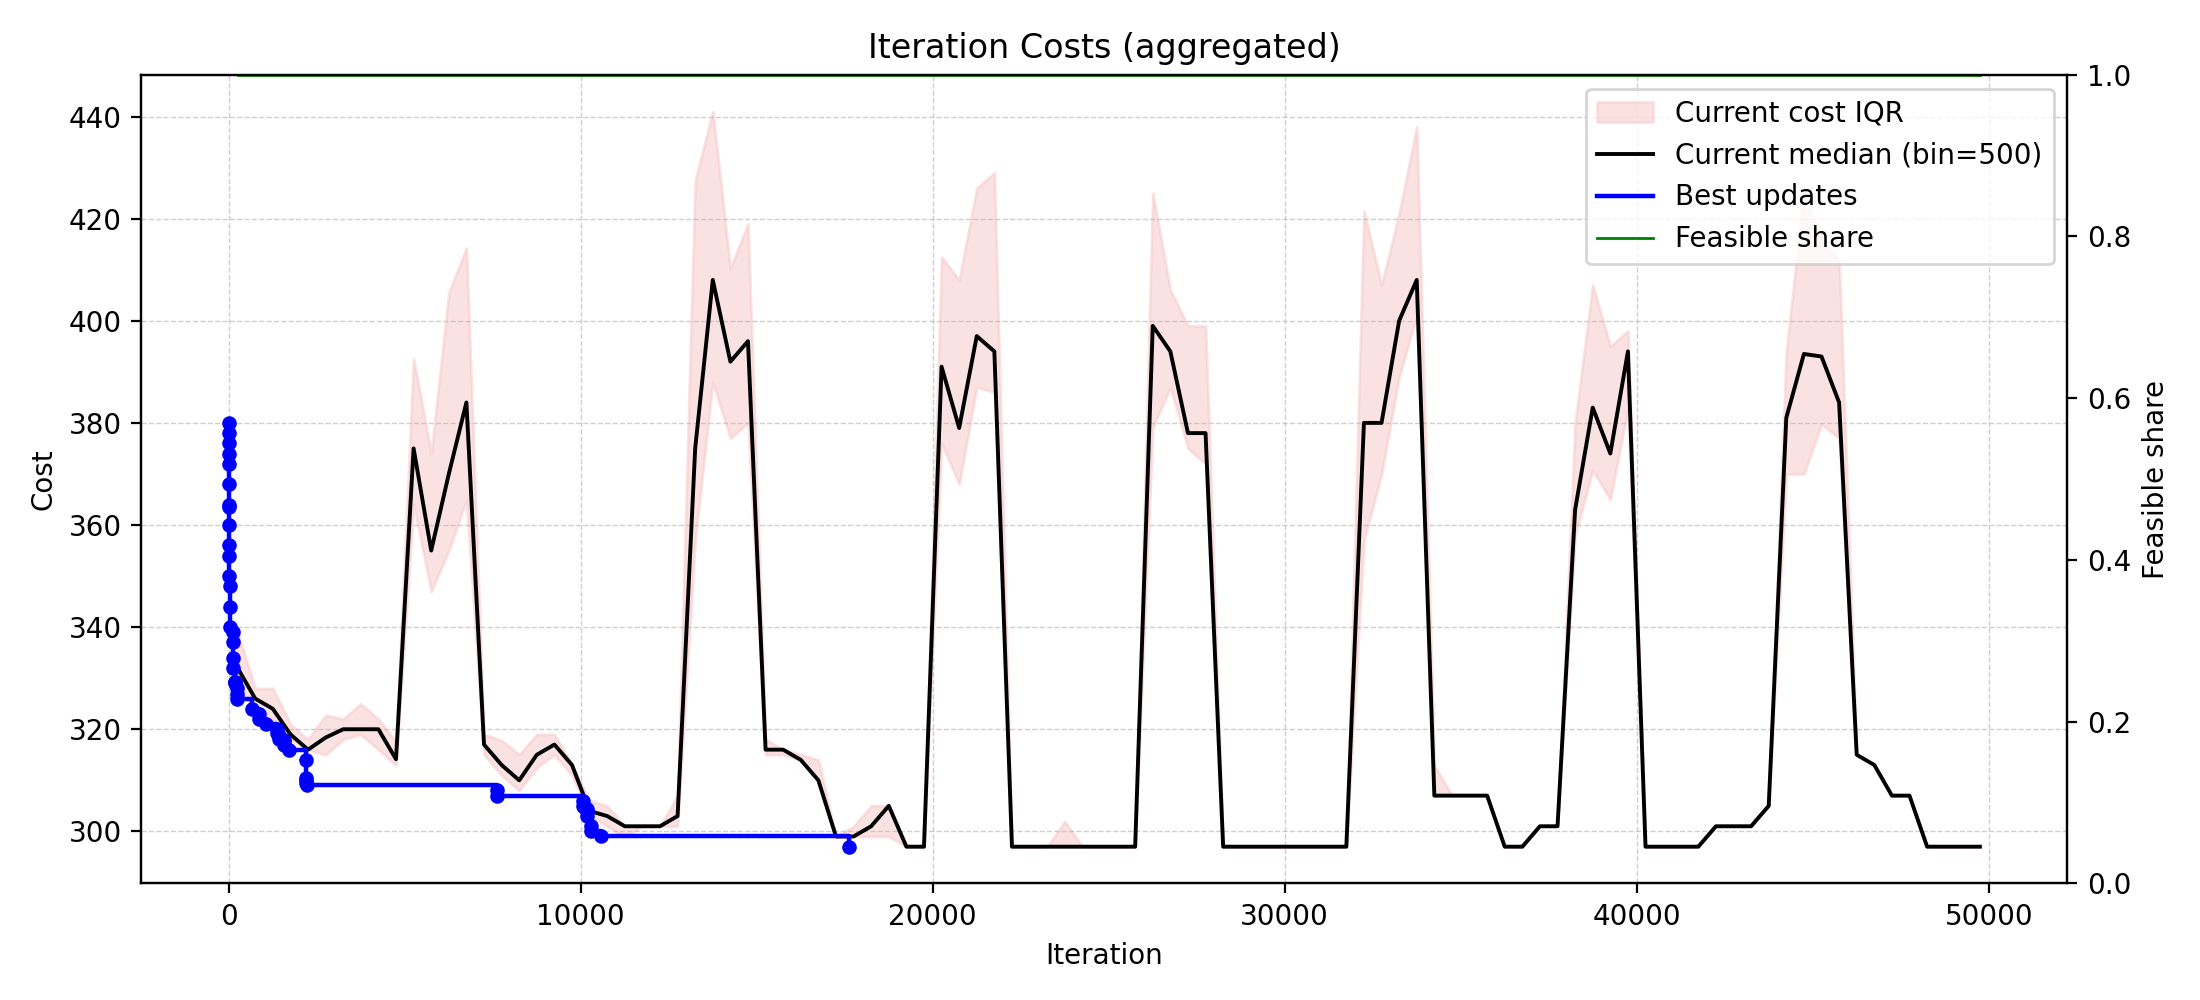
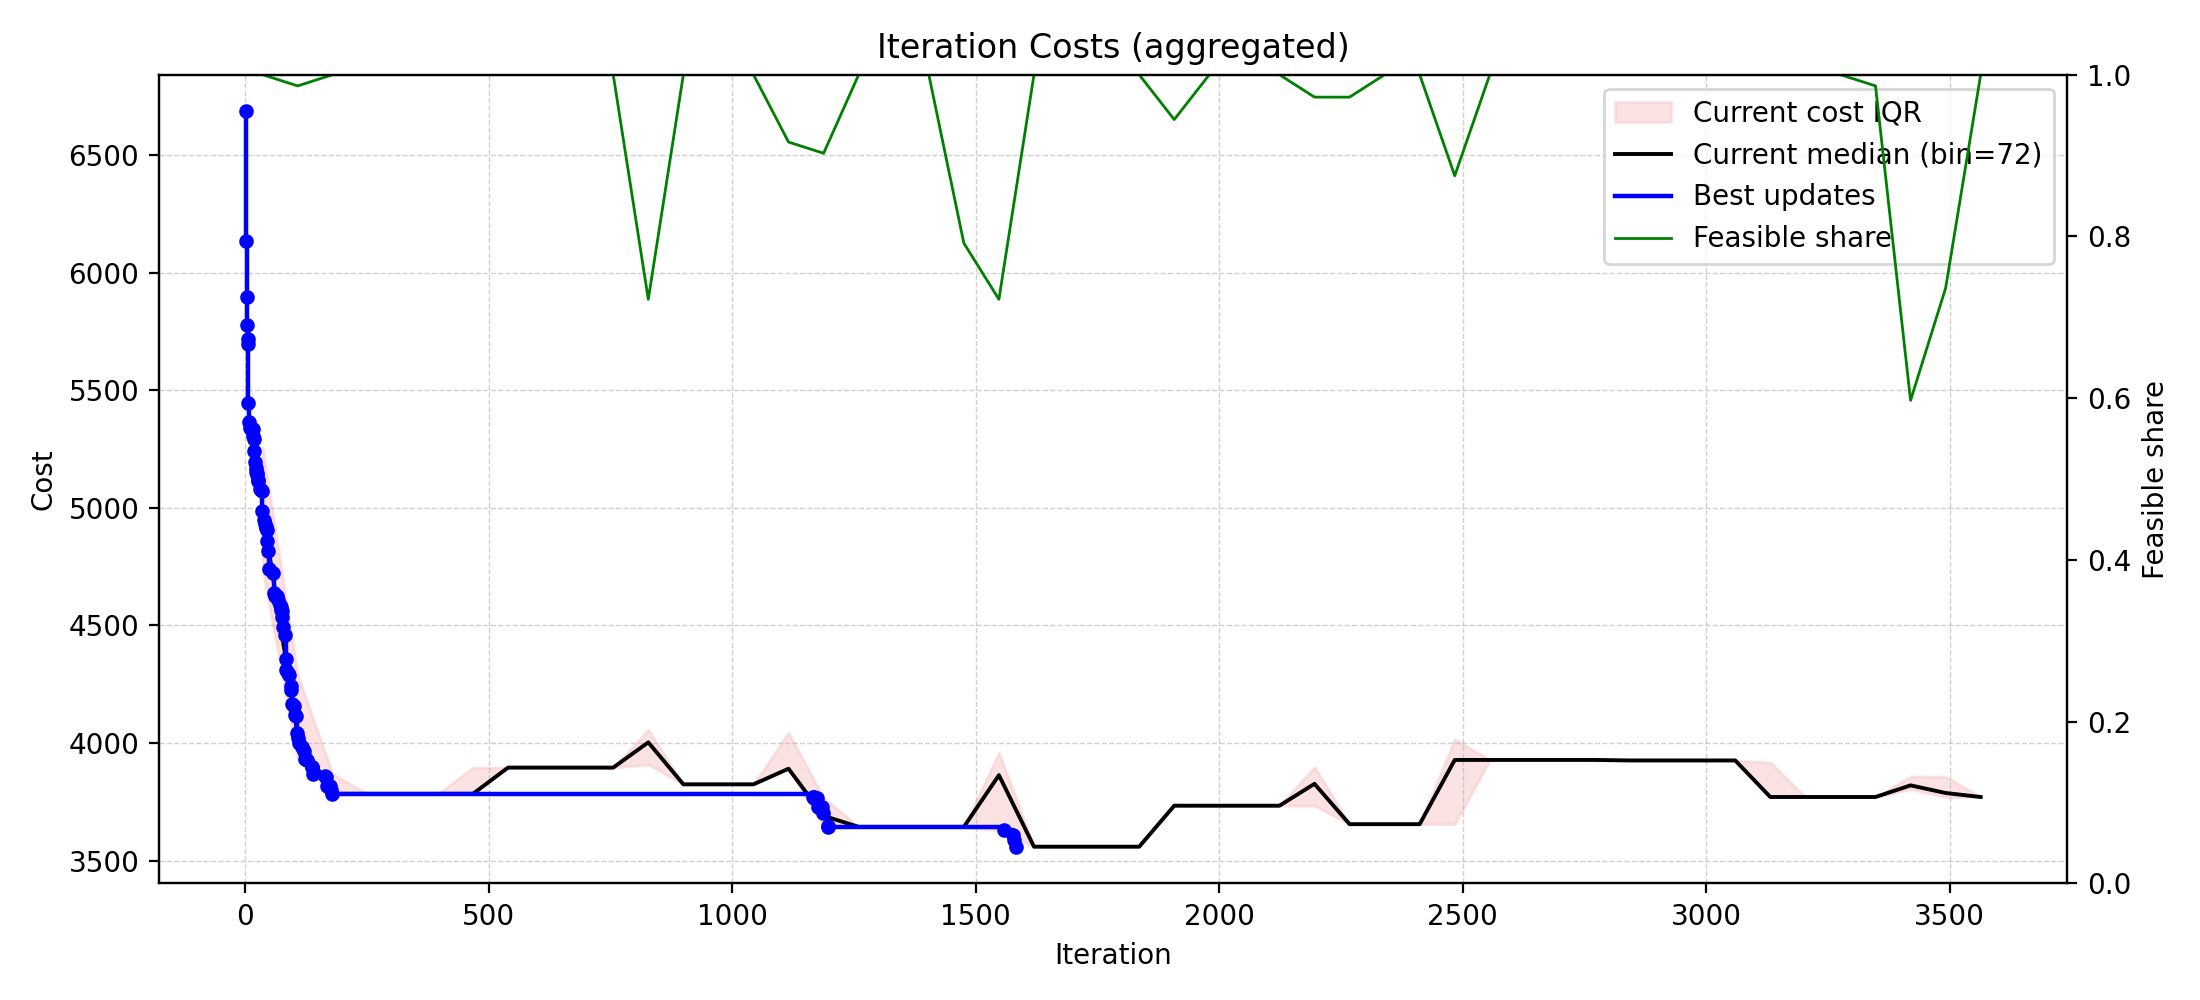
save version

diff --git a/plot_iteration.py b/plot_iteration.py
@@ -124,7 +124,9 @@ def main():
 	args = parser.parse_args()
 
 	iters, current, best, feasible = read_iterations(args.input)
-	plot_iterations(iters, current, best, feasible, args.bin_size, args.annotate_best)
+	total_iter = max(iters) if iters else 1
+	bin_size = args.bin_size if args.bin_size != 500 else max(1, total_iter // 50)
+	plot_iterations(iters, current, best, feasible, bin_size, args.annotate_best)
 
 	if args.save:
 		plt.savefig(args.save, dpi=200)